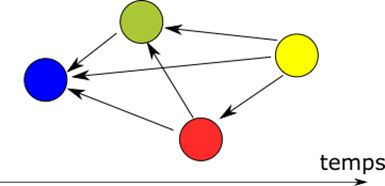
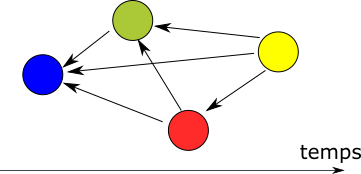
added Api section updated images/auto.png

diff --git a/presentation_projet.tex b/presentation_projet.tex
@@ -314,9 +314,45 @@
   \begin{frame}
     \frametitle{API}
     \framesubtitle{}
-  
+  	\begin{block}{Finalité}
+        \begin{itemize}
+        	\item Permettre une utilisation simple et efficace des mécanismes de connexions automatiques et de routage.
+        \end{itemize}
+    \end{block}
+    \begin{block}{Comment ?}
+    \begin{itemize}
+    	\item Service Android.
+    \end{itemize}
+    \end{block}
+  \end{frame}
+    \begin{frame}
+    \frametitle{API}
+    \framesubtitle{Service Android}
+  	\begin{block}{Qu'est-ce que c'est ?}
+        \begin{itemize}
+        	\item Un mécanisme propre à Android pour executer une tache en dehors de l'application
+        	\item Propose des mécanismes de communications bidirectionnels entre une application et le service.
+        \end{itemize}
+    \end{block}
+  \end{frame}
+  \begin{frame}
+    \frametitle{API}
+    \framesubtitle{}
+        \begin{figure}
+          \begin{center}
+            \includegraphics[width=.6\textwidth]{images/api.png}
+            \label{fig:auto}
+          \end{center}
+        \end{figure}
   \end{frame}
   
   % TODO La suite dépend de ce qu'on aura produit d'ici jeudi.
+  
+  \section{Bilan}
+  \begin{frame}
+    \frametitle{Bilan}
+    \framesubtitle{}
+  
+  \end{frame}
   
 \end{document}
